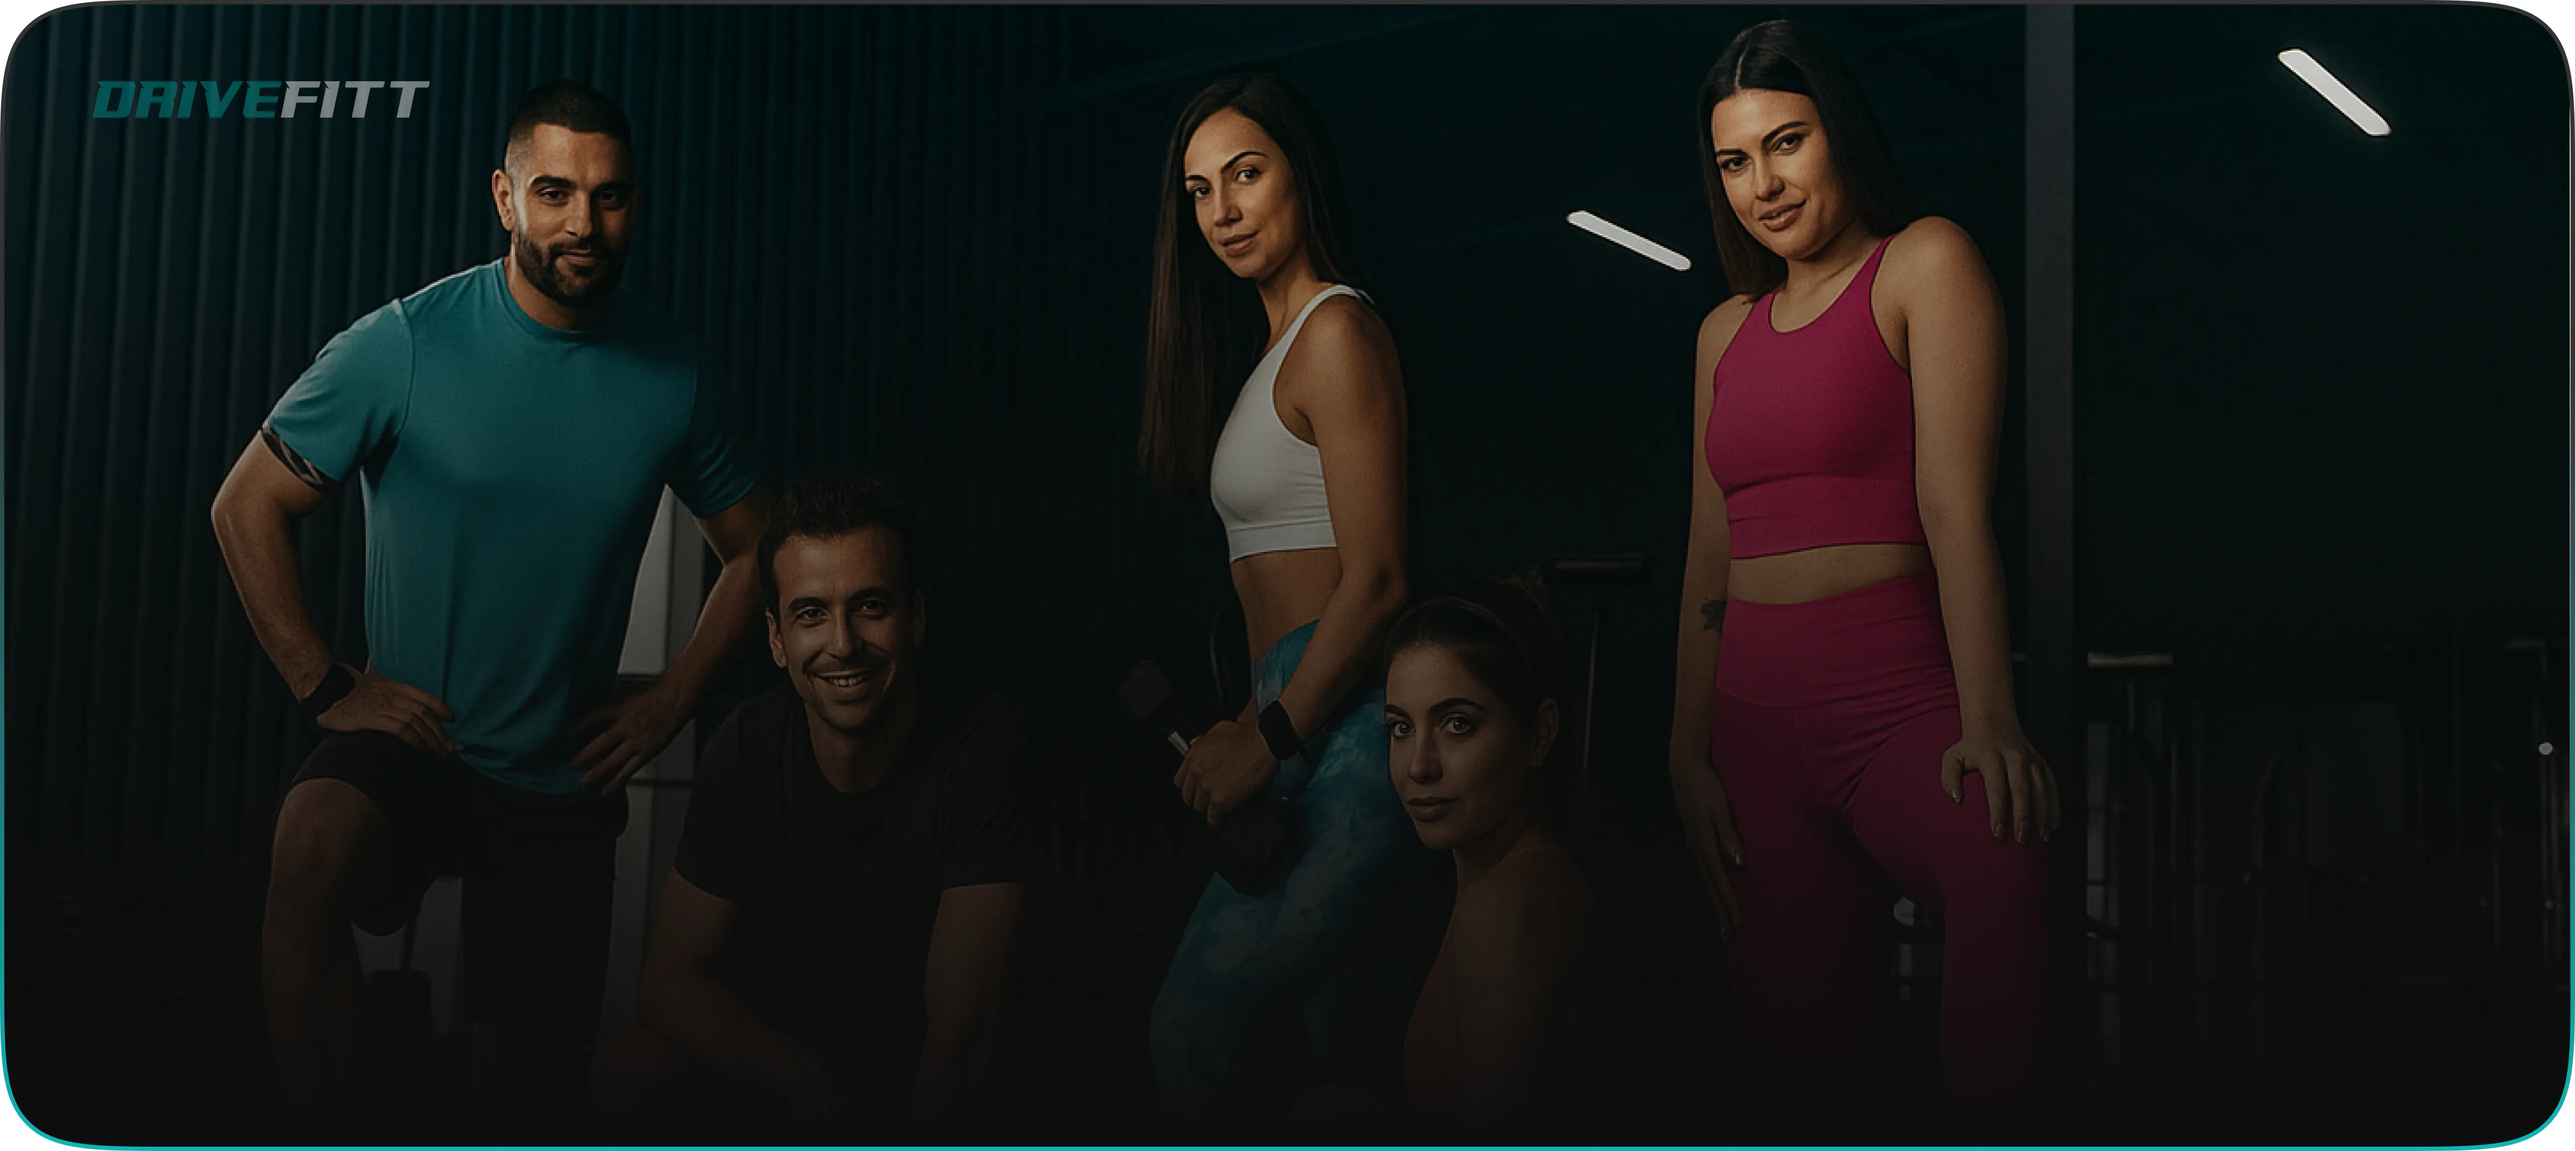
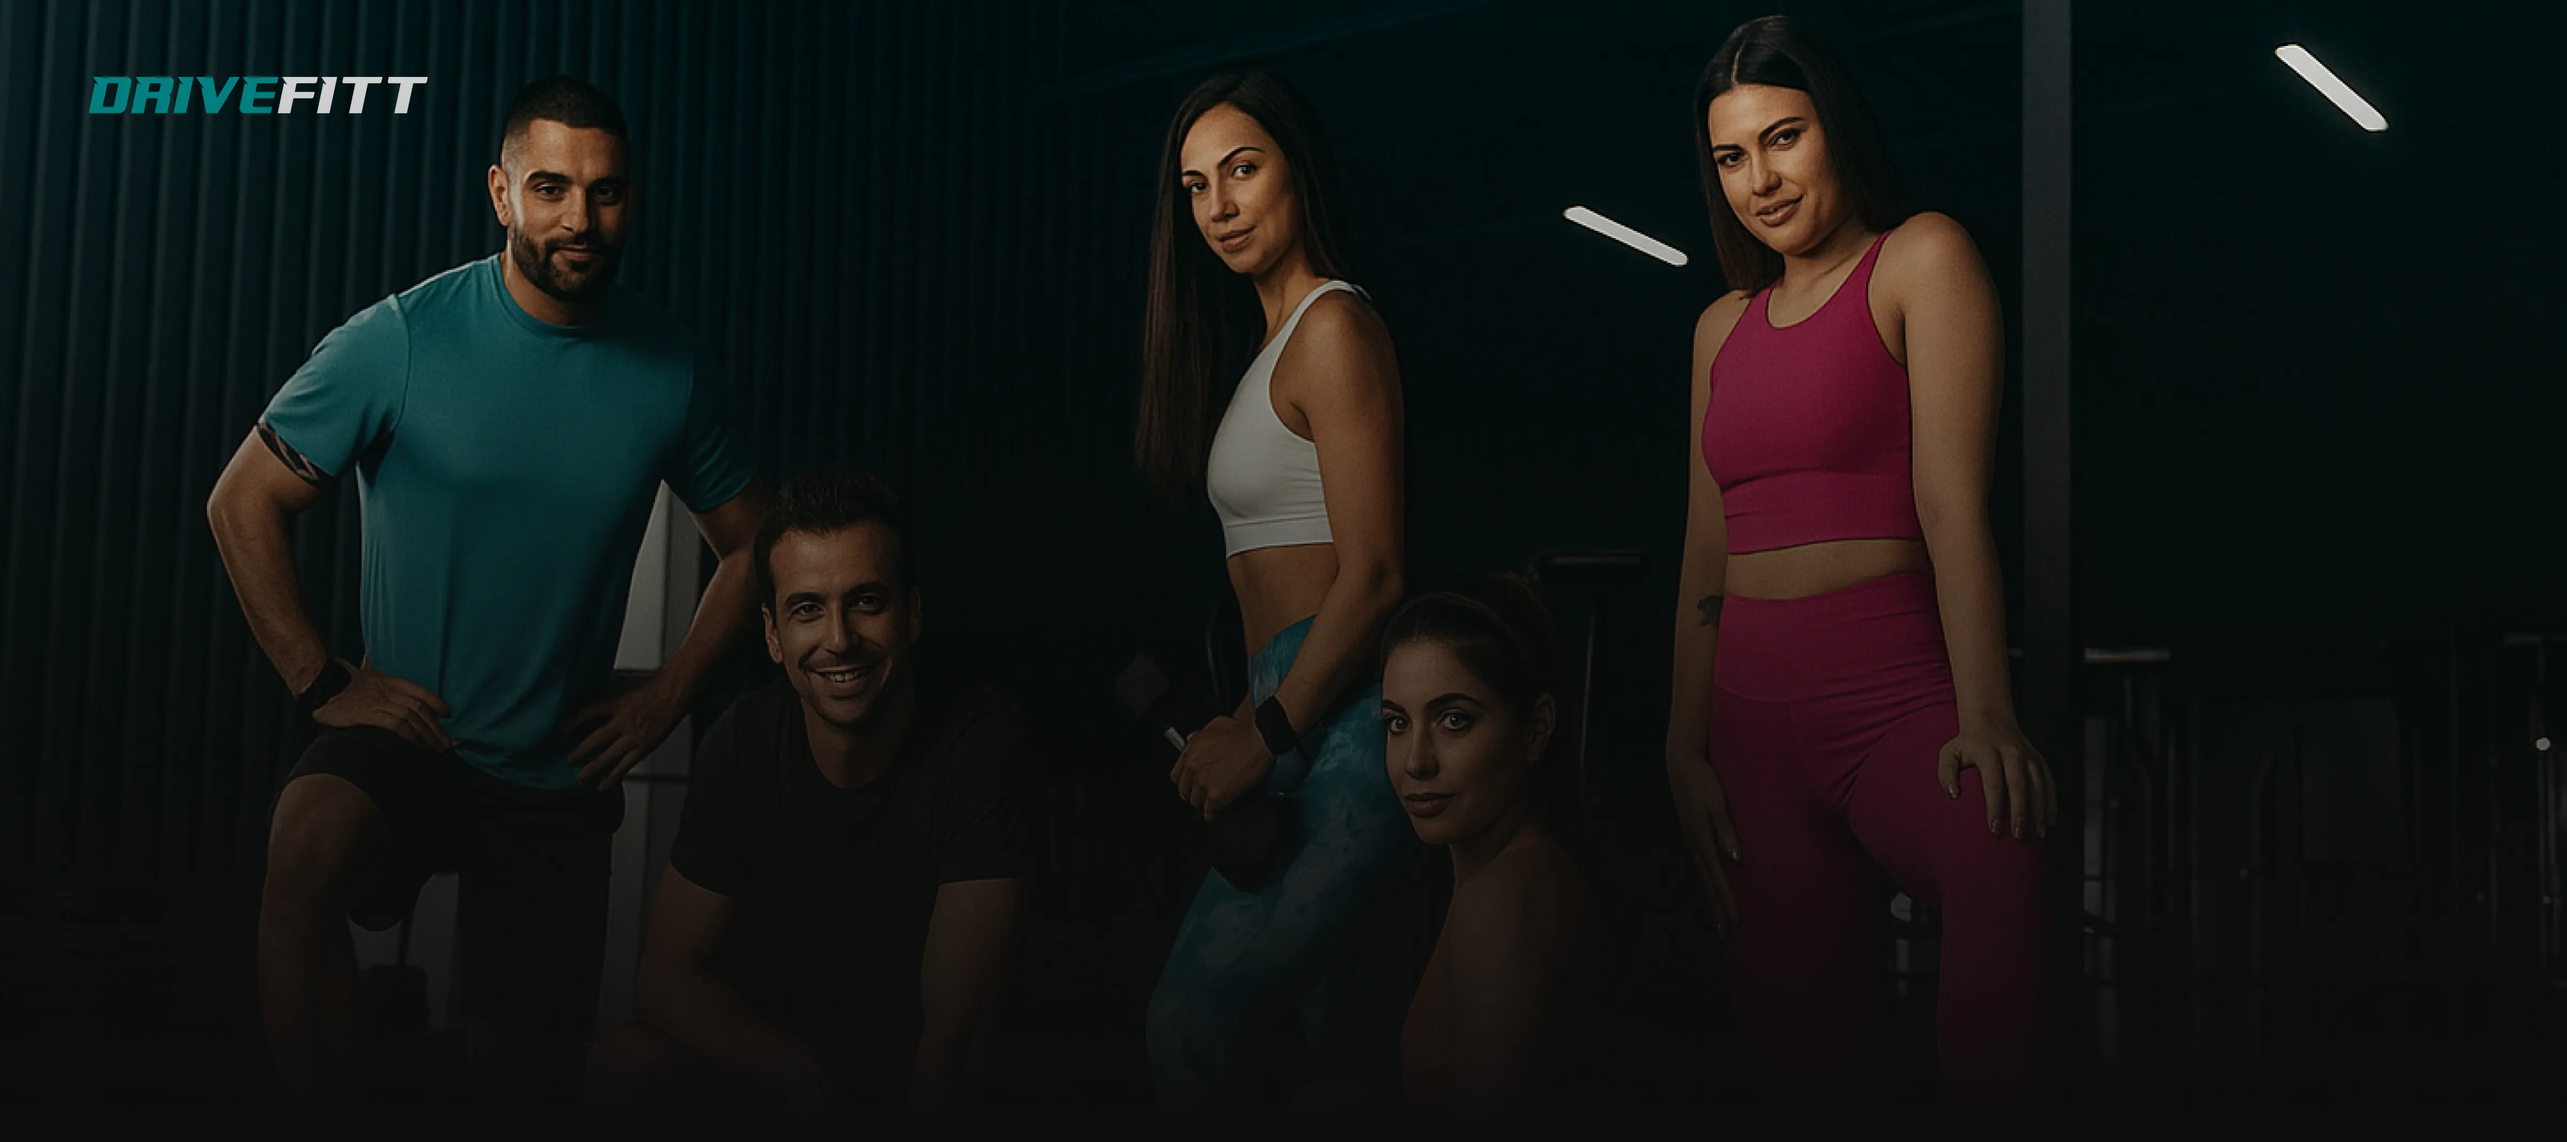
contact us

diff --git a/src/components/common/Banner.tsx b/src/components/common/Banner.tsx
@@ -26,10 +26,10 @@ const Banner = ({ data, isMobile }: BannerType) => {
             backgroundRepeat: "no-repeat",
             backgroundPosition: "center center",
             backgroundAttachment: "local",
-            backgroundSize: isMobile ? "contain" : "cover",
+            backgroundSize: "100% 100%",
           }}
         >
-          <div className="flex flex-col justify-end md:justify-center h-full items-center gap-4 md:gap-10">
+          <div className="flex flex-col justify-end md:justify-center h-full items-center gap-4 md:gap-10 md:pt-[115px]">
             <TitleDescription
               title={title || ""}
               description={description || ""}
